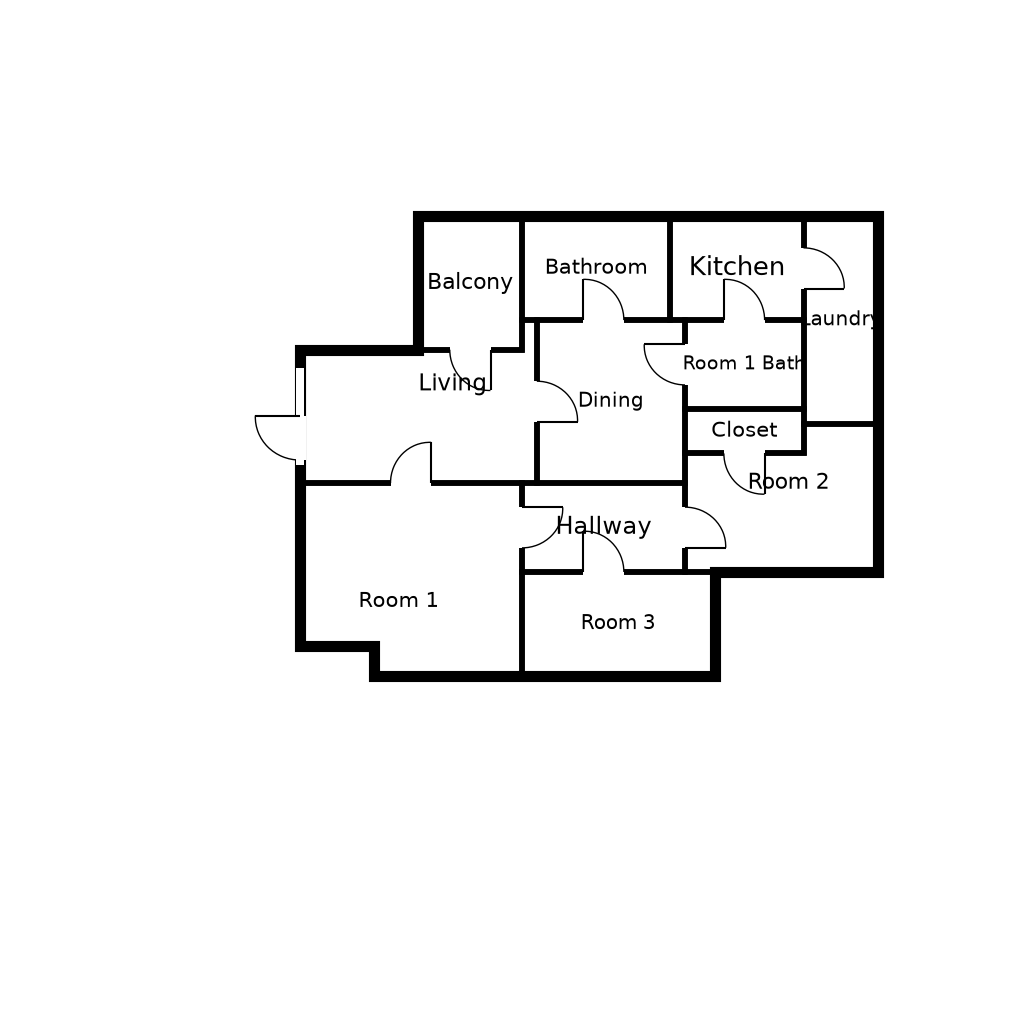
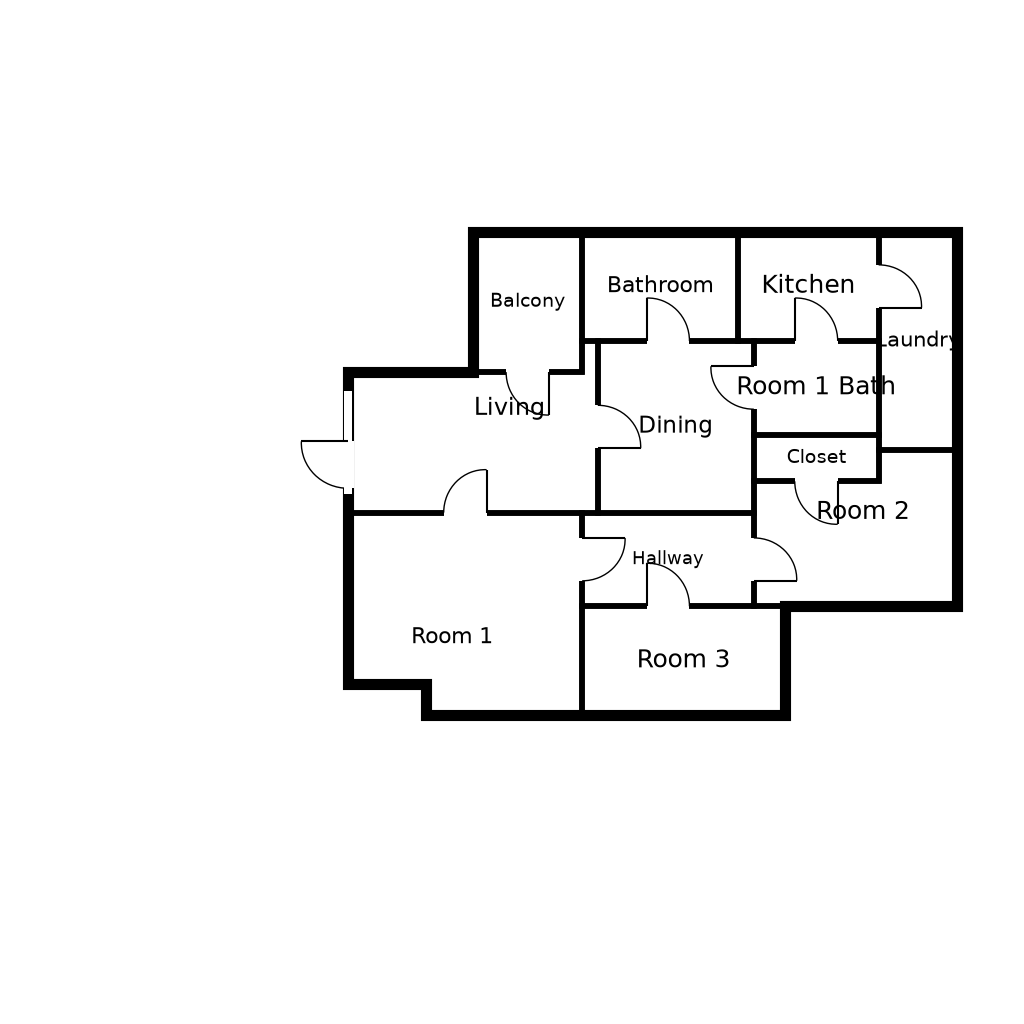
Update minimum scale parameter and modify floorplan image
- Increased the minimum scale from 500.0 to 600.0 in the extraction transformation script to improve rendering precision.
- Updated the `floorplan_realistic.png` image to reflect recent changes in the extraction process.

These adjustments enhance the control over scaling in floorplan generation and ensure the output image is consistent with the latest parameters.

Changed region(s): [[0.2812, 0.1875, 0.9375, 0.7188], [0.4062, 0.5938, 0.4688, 0.625]]

diff --git a/backend/floorplan/dataset/extraction/transform.py b/backend/floorplan/dataset/extraction/transform.py
@@ -8,7 +8,7 @@ from typing import Any
 Coord = tuple[float, float]
 
 _CANVAS_SIZE = 1024
-_SCALE_MIN = 500.0
+_SCALE_MIN = 600.0
 _SCALE_MAX = 900.0
 
 
